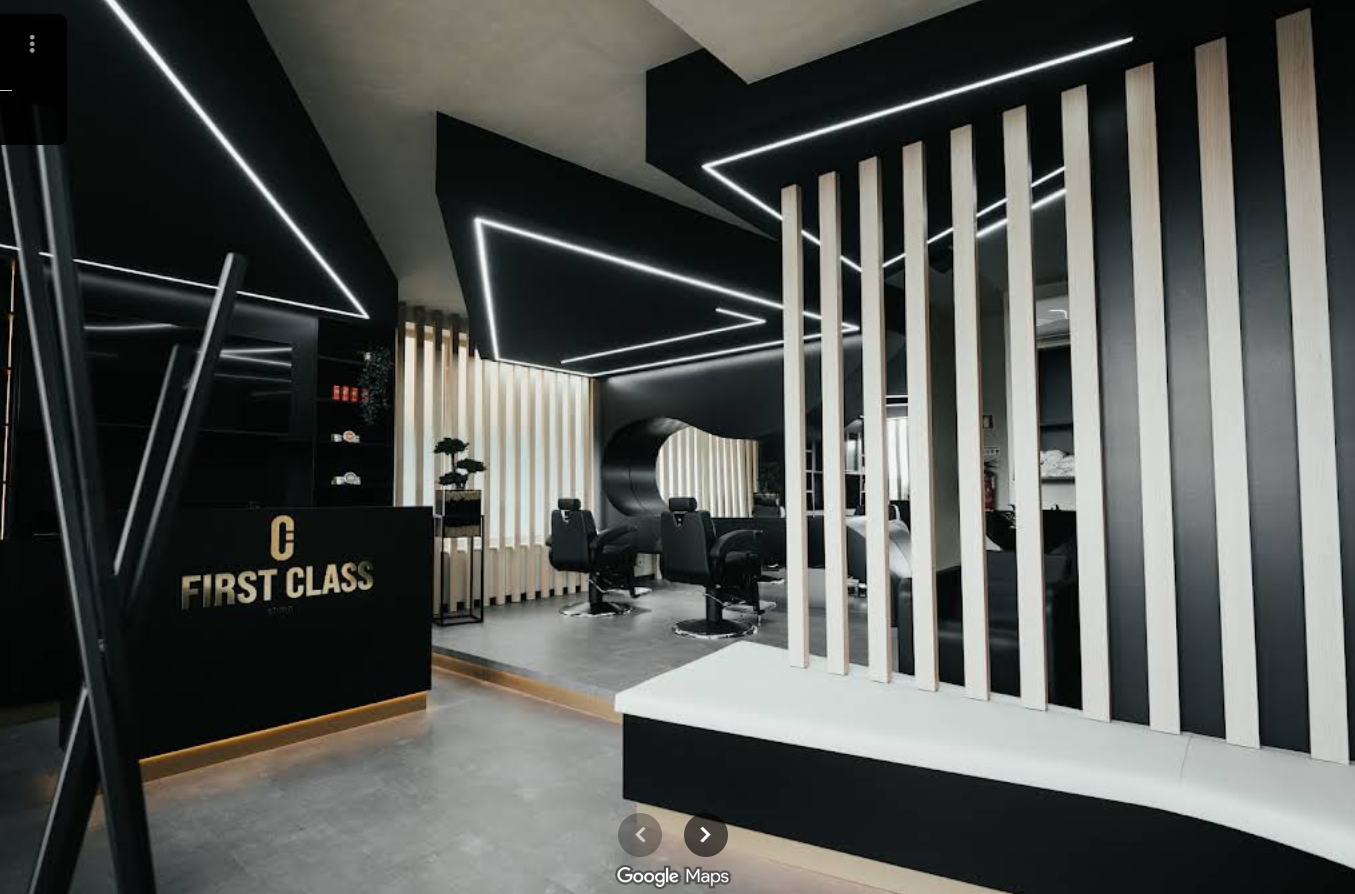
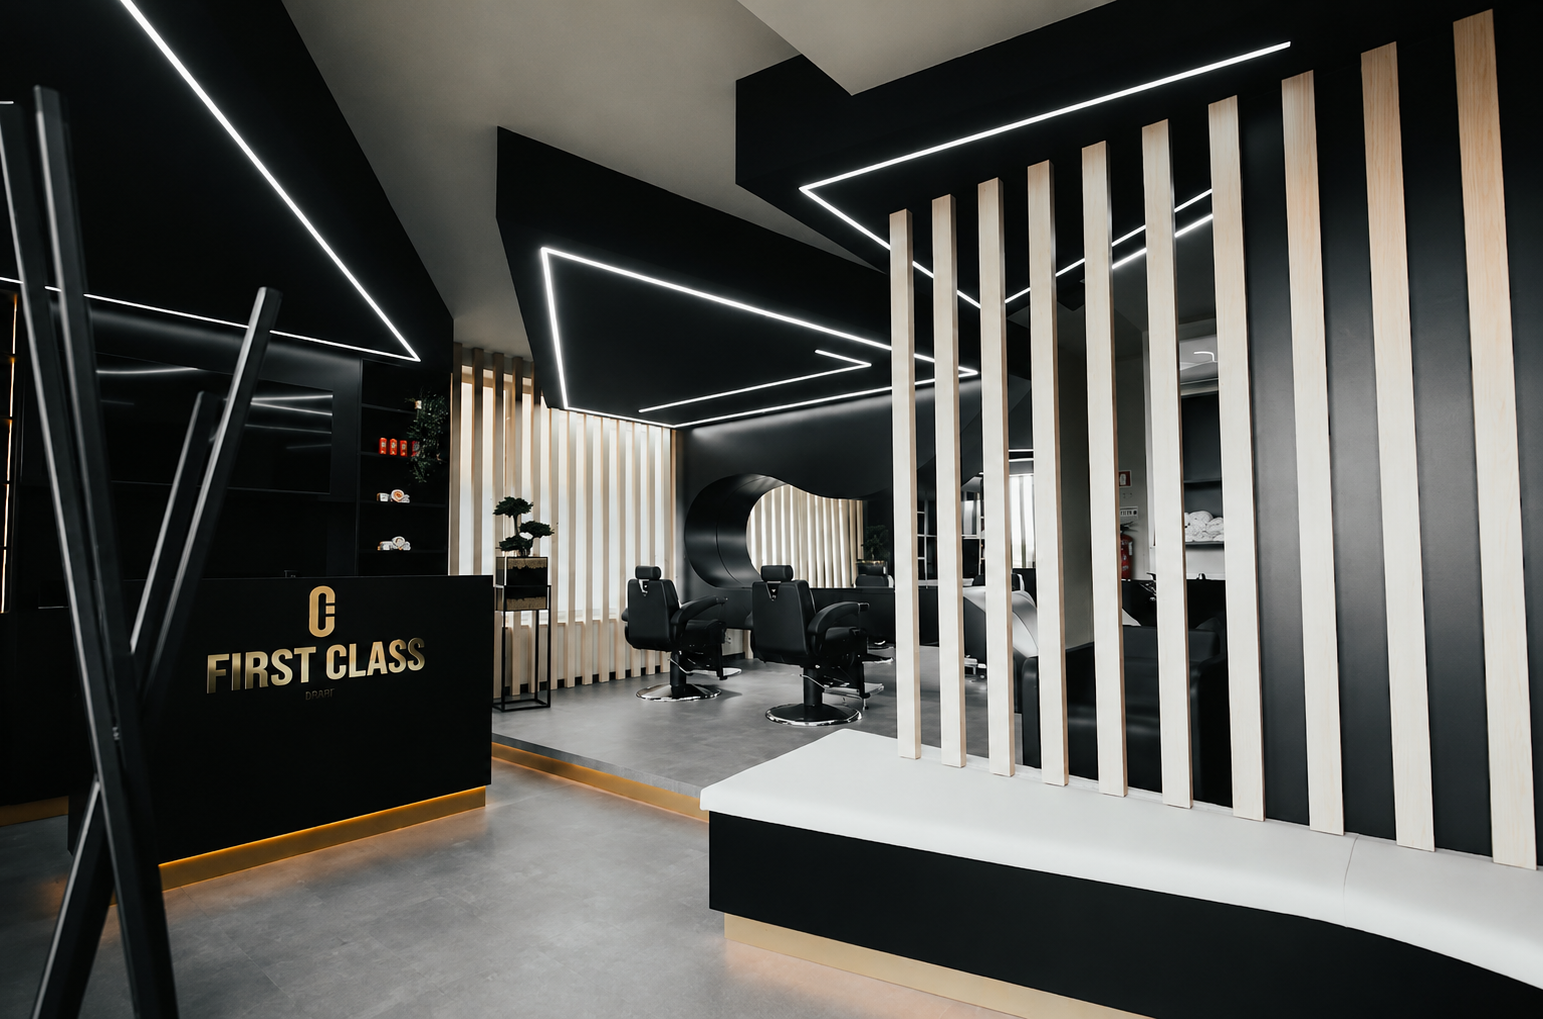
Add files via upload

diff --git a/styles/style.css b/styles/style.css
@@ -170,7 +170,7 @@ section {
   padding: 0 3rem;
   position: relative;
   overflow: hidden;
-  margin-top: 5rem;
+  margin-top: 4rem;
 }
 
 .hero::before {
@@ -1188,6 +1188,7 @@ footer {
     justify-content: center;
     align-items: flex-start;
     padding-top: 2rem;
+    margin-top: 4rem;
   }
 
   .hero-title {
@@ -1199,6 +1200,7 @@ footer {
   .hero-brand {
     font-size: 2rem;
     margin-bottom: 0.5rem;
+    margin-top: 2rem;
   }
 
   .hero-subtitle {
@@ -1435,7 +1437,6 @@ footer {
   .confirmacao {
     min-height: 60vh;
     padding: 2rem 1rem;
-    margin-top: 5rem;
   }
 
   .confirmacao h1 {
@@ -1497,7 +1498,6 @@ footer {
 /* ==================== PÁGINAS ADICIONAIS ==================== */
 
 /* Marcação */
-
 .marcacao {
   text-align: center;
   color: var(--text-primary);

diff --git a/index.html b/index.html
@@ -100,7 +100,7 @@
 
     <div class="precos-container">
       <div class="precos-image">
-        <img src="imagens/firstclass2.png" alt="Tabela de preços">
+        <img src="imagens/firstclass4.jpg" alt="Tabela de preços">
       </div>
 
       <div class="precos-table-wrapper">
@@ -188,7 +188,7 @@
       </div>
 
       <div class="sobrenos-image">
-        <img src="imagens/firstclass1.png" alt="Equipe da FirstClass">
+        <img src="imagens/firstclass1.jpg" alt="Equipe da FirstClass">
       </div>
     </div>
   </section>
